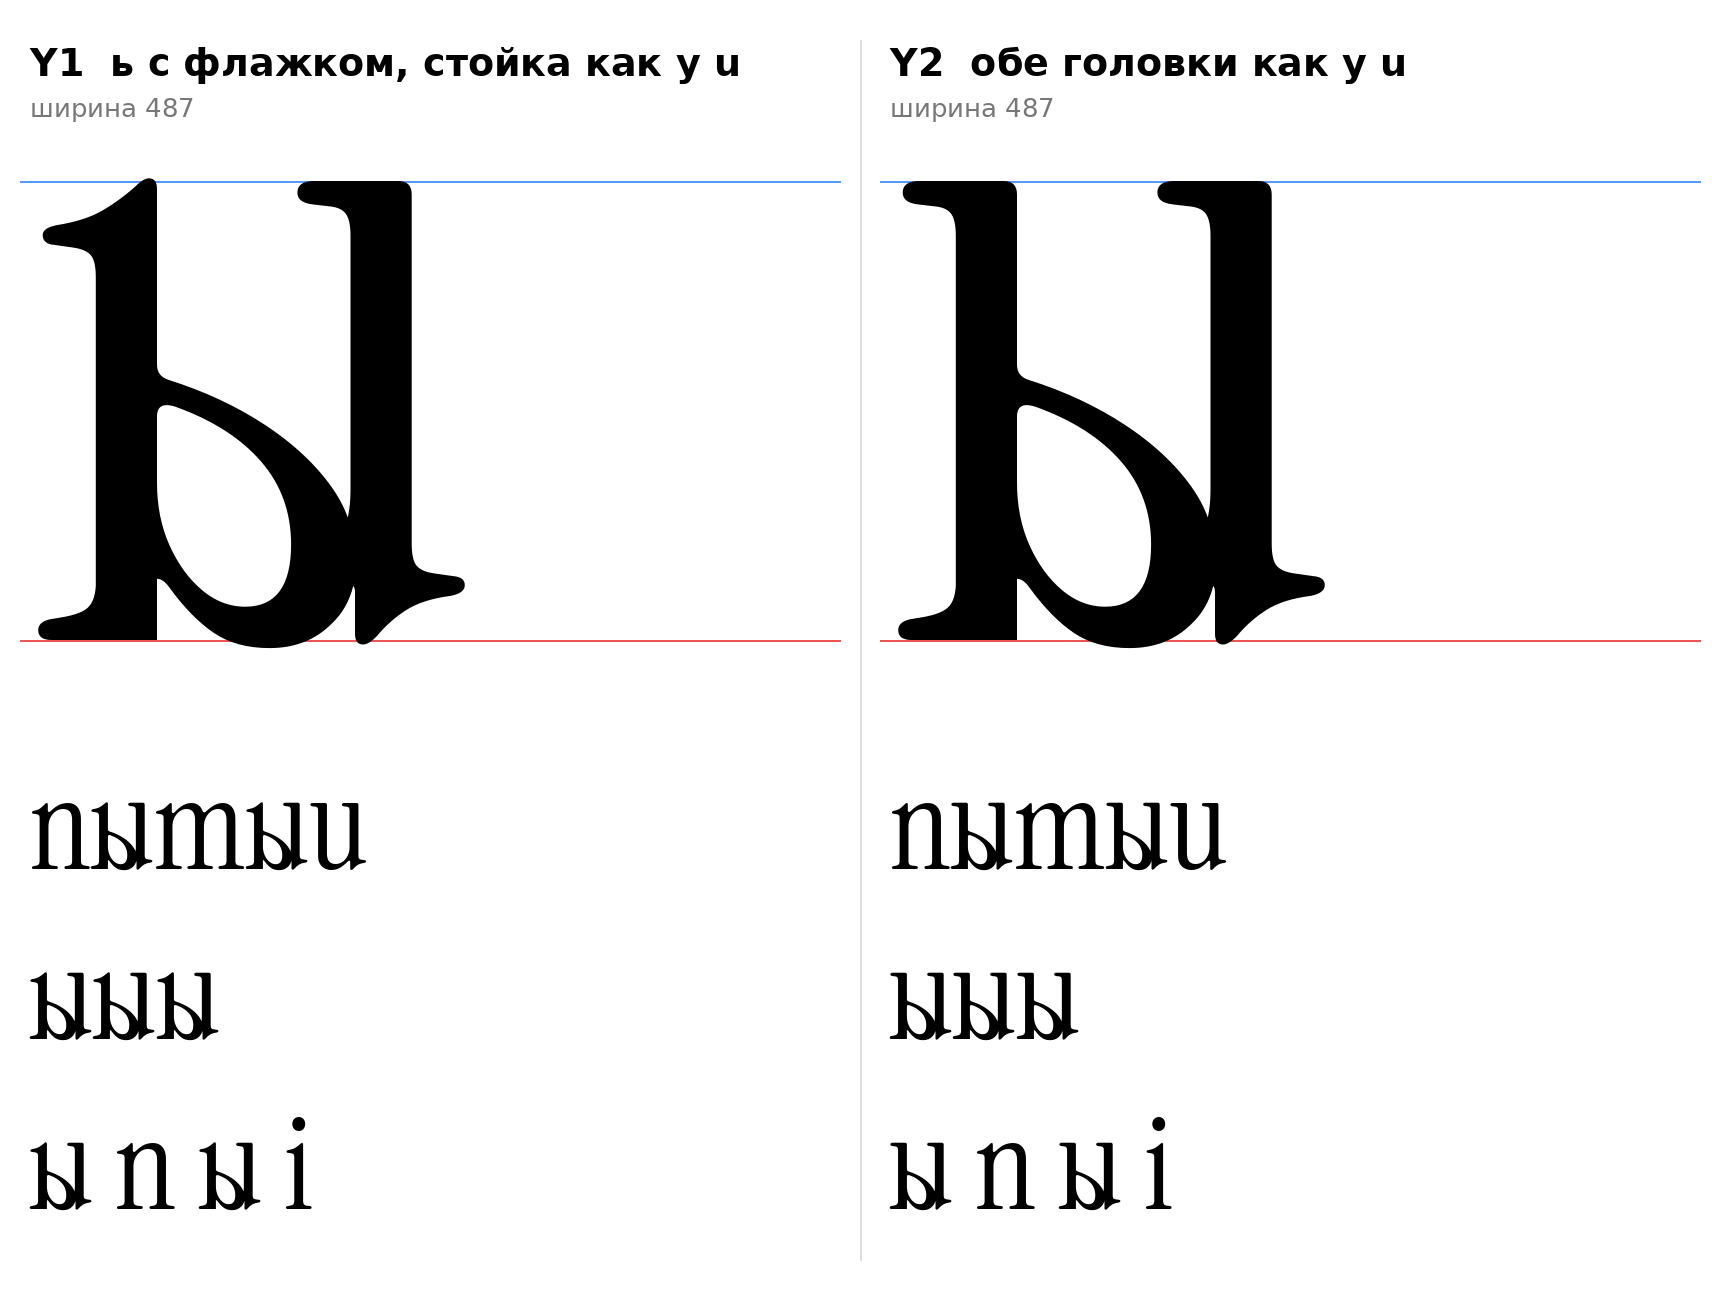
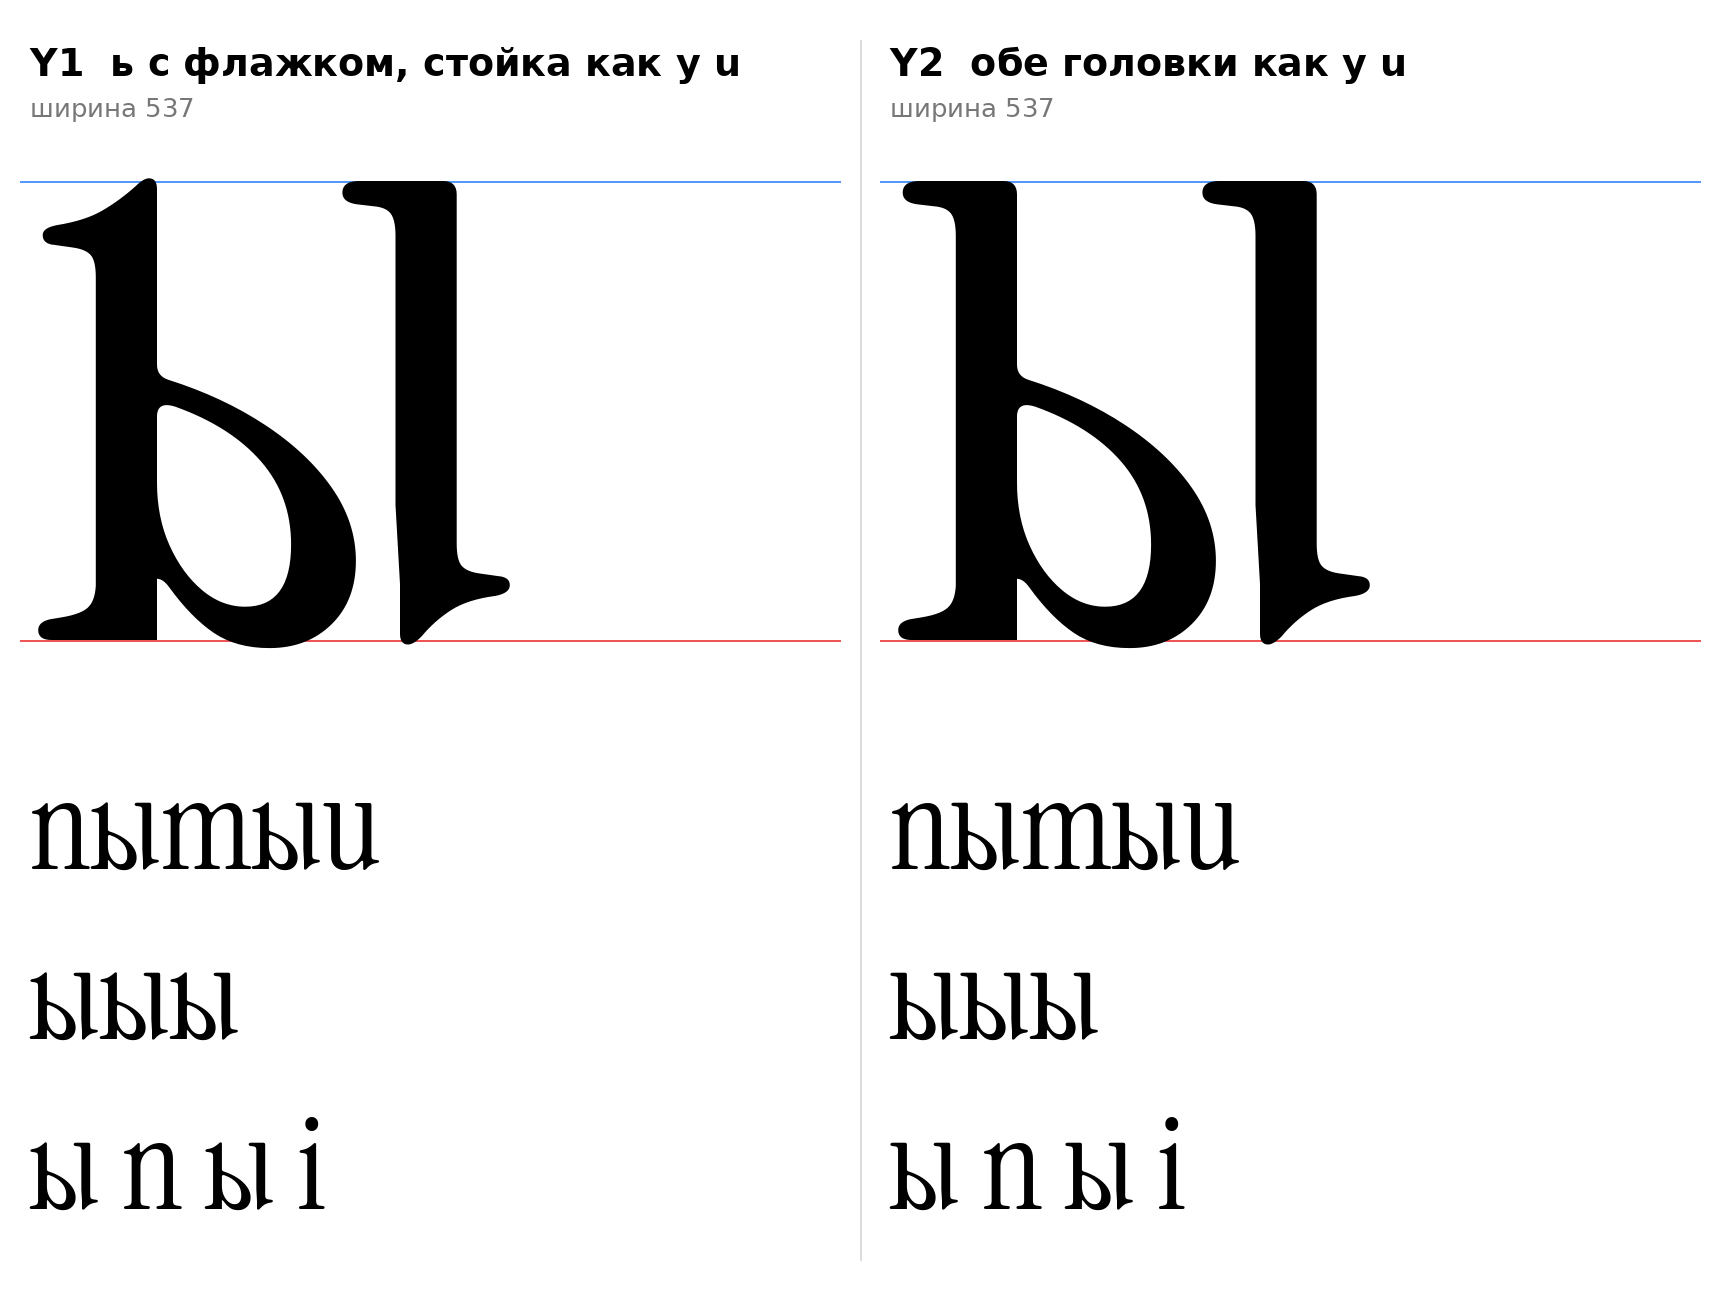
Yery: add the 44 unit gap from the author's drawing, taper the stem foot
- bowl and right stem are separate (they stuck together before: my misreading of the drawing)
- left stem edge tapers from 312 to 317 into the foot: no 5 unit step
- Y1 is the main variant, Y2 kept; D17 closed

Claude-Session: https://claude.ai/code/session_01Jf9YYsEQKw22U7CE7joTnT

diff --git a/tools/sketch_yery.py b/tools/sketch_yery.py
@@ -1,7 +1,7 @@
 #!/usr/bin/env python3
 """Эскизы строчной ы (U+044B, yeru-cy) по рисунку автора проекта: ь + правая стойка от латинской u.
-Правая стойка это стойка u целиком: плоская головка слева, стойка, стык с чашей, хвост-выход справа внизу (F3).
-Чаша ь вливается в стойку (зазора нет), как у u чаша вливается в правую стойку.
+Правая стойка это стойка u: плоская головка слева, прямая стойка, острая ножка и хвост-выход справа внизу (F3).
+Между чашей ь и стойкой зазор 44 (как на рисунке); левый край стойки прямой до острой ножки.
 Левая часть берётся из общего кода ь (tools/glyphparts.py).
   Y1: ь = S3 (флажок), правая стойка с головкой u (как на рисунке слева).
   Y2: ь = S4 (головка u), обе головки плоские (как на рисунке справа).
@@ -13,13 +13,16 @@ from glyphparts import soft_sign
 
 ref = Ref(); os.makedirs("build/yery", exist_ok=True); os.makedirs("data/yery", exist_ok=True)
 U = ref.glyph("u")
-OVERLAP = 6        # чаша ь (правый край 351) заходит в стойку на 6: вливается, а не касается
+GAP = 44           # зазор между правым краем чаши ь (351) и левым краем стойки: снят с рисунка автора проекта (около 44)
 U_STEM_LEFT = 312  # левый край правой стойки u (измерено)
 def right_stem(bowl_r):
-    # правая стойка u: головка целиком (выше y=400 левее стойки чаши u нет, берём от x=250), ниже y=400 от x=290
-    # (левее лежит чаша u, её не берём), со стыком и хвостом
-    part = OR(AND(U, rect(250, 400, 500, 700)), AND(U, rect(290, -50, 500, 400)))
-    return shift(part, bowl_r - OVERLAP - U_STEM_LEFT)
+    # стойка u: головка целиком (выше y=400 левее стойки чаши u нет, берём от x=250);
+    # ниже y=400 левый край прямой, от x=312: без наплыва там, где у u в стойку вливается её чаша; ножка и хвост-выход остаются
+    # левый край ниже: 312 до y=150, затем плавное сужение до 317 к y=62 (там у u начинается прямой край ножки x=317, измерено);
+    # прямой срез по 312 давал ступеньку в 5 единиц на стыке
+    taper = poly((U_STEM_LEFT, 400), (U_STEM_LEFT, 150), (317, 62), (317, -50), (500, -50), (500, 400))
+    part = OR(AND(U, rect(250, 400, 500, 700)), AND(U, taper))
+    return shift(part, bowl_r + GAP - U_STEM_LEFT)
 
 VAR = {"Y1": ("flag", "Y1  ь с флажком, стойка как у u"), "Y2": ("u", "Y2  обе головки как у u")}
 items, meta = [], {}

diff --git a/tools/sketchlib.py b/tools/sketchlib.py
@@ -25,6 +25,10 @@ class Ref:
 
 def rect(x0, y0, x1, y1):
     p = Path(); q = p.getPen(); q.moveTo((x0, y0)); q.lineTo((x1, y0)); q.lineTo((x1, y1)); q.lineTo((x0, y1)); q.closePath(); return p
+def poly(*pts):
+    p = Path(); q = p.getPen(); q.moveTo(pts[0])
+    for pt in pts[1:]: q.lineTo(pt)
+    q.closePath(); return p
 def AND(a, b): return pathops.op(a, b, PathOp.INTERSECTION)
 def SUB(a, b): return pathops.op(a, b, PathOp.DIFFERENCE)
 def OR(*ps):

diff --git a/docs/glyphs/yery.md b/docs/glyphs/yery.md
@@ -1,33 +1,40 @@
 # ы (U+044B, yeru-cy), строчная, прямое начертание
 
-Статус на 14.10.2026: **собрана по рисунку автора проекта, два варианта головок** (D17 снято, зазора нет).
+Статус на 14.10.2026: **собрана по рисунку автора проекта, два варианта**. Основной Y1 (выбор автора проекта), Y2 сохранён.
 
 ![Y1 и Y2](../img/yery_Y1_Y2.png)
 
 ## Конструкция
 
-Рисунок автора проекта: ь, чаша которой вливается в правую стойку, у стойки сверху плоская головка слева и хвост-выход справа внизу. Это конструкция латинской `u`, у которой чаша вливается в правую стойку и стойка заканчивается хвостом. Контуры построены кодом, рисунок не обводился.
+Рисунок автора проекта: ь и правая стойка раздельны (между ними зазор), у стойки сверху плоская головка слева, внизу острая ножка и хвост-выход справа. Это правая стойка латинской `u`. Контуры построены кодом, рисунок не обводился.
 
 - Левая часть: ь (`docs/glyphs/soft.md`) из общего кода `tools/glyphparts.py`: одна форма ь в обеих буквах, при правке ь меняется и ы.
-- Правая часть: стойка `u` целиком (головка слева, стойка, стык с чашей, хвост-выход справа внизу). Головка берётся от x=250 выше y=400, ниже y=400 стойка берётся от x=290 (левее лежит чаша `u`, её не берём).
-- Чаша ь (правая граница 351) заходит в стойку на 6 единиц: вливается, а не касается.
+- Правая часть: стойка `u` (головка слева, стойка, ножка, хвост-выход справа внизу).
+  - Головка берётся целиком (выше y=400 от x=250).
+  - Левый край ниже: 312 до y=150, затем плавное сужение до 317 к y=62, где у `u` начинается прямой край ножки (измерено). Без сужения на стыке была ступенька в 5 единиц.
+- Зазор между правым краем чаши ь (351) и левым краем стойки: **44**, снят с рисунка автора проекта.
 
 | | ь | Головка правой стойки | Ширина |
 |---|---|---|---|
-| **Y1** | S3 (флажок) | плоская, как у `u` (рисунок слева) | 487 |
-| **Y2** | S4 (головка как у `u`) | плоская, как у `u`: обе головки плоские (рисунок справа) | 487 |
+| **Y1** | S3 (флажок) | плоская, как у `u` (рисунок слева) | 537 |
+| **Y2** | S4 (головка как у `u`) | плоская, как у `u`: обе головки плоские (рисунок справа) | 537 |
 
-- `[ИЗМЕРЕНО]` Два контура в каждом варианте: внешний и контрформа чаши. Левая граница −2, правая 472, верх 513 (Y1) и 510 (Y2), низ −9. Ширина 487 (поле справа 15, как у `u`).
-- `[НАБЛЮДЕНИЕ]` Хвост справа внизу это F3: тот же хвост, что у `a`, `d`, `u`. Крючки в этом шрифте бывают только справа; здесь он справа.
-- `[РЕШЕНИЕ]` Выбор автора проекта для ь это S3, поэтому основным считается Y1. Y2 сохранён по рисунку автора проекта.
-- `[ОТКРЫТО]` Стык чаши со стойкой и щель сверху между ними сохранены от донора, вручную не отрисованы. Поле слева у ь не подобрано под строку.
+- `[ИЗМЕРЕНО]` Три контура в каждом варианте: ь снаружи, контрформа чаши, правая стойка. Левая граница −2, правая 522, верх 513 (Y1) и 510 (Y2), низ −9. Поле справа 15, как у `u`.
+- `[НАБЛЮДЕНИЕ]` Хвост справа внизу это F3: тот же хвост, что у `a`, `d`, `u`; он справа, как и положено.
+- `[РЕШЕНИЕ]` Выбор автора проекта: основной Y1, Y2 не удалять.
+- `[ОТКРЫТО]` Зазор 44 снят с рисунка на глаз (по размерам x-height на рисунке): уточнить при подборе поля и кернинга. Поле слева у ь не подобрано под строку.
+
+## Что было неверно и исправлено
+
+- Первая сборка по рисунку вливала чаша в стойку (заход 6 единиц), и буквы слиплись. На рисунке автора проекта между ними зазор. Моя ошибка чтения рисунка.
+- Прямой срез левого края стойки по 312 давал ступеньку на стыке с ножкой.
 
 ## Что отброшено
 
-- Первые эскизы ы с зазором между ь и стойкой ı (182 и 109) и с чашей от `b` и `p`: чаша от `b` и `p` читалась как «D», зазор не соответствует рисунку автора проекта.
+- Первые эскизы ы с зазором между ь и стойкой ı (182 и 109) и с чашей от `b` и `p`: чаша от `b` и `p` читалась как «D»; стойка ı не соответствует рисунку автора проекта.
 
 Эскиз из деталей оригинала, не финальный контур.
 
 ## Файлы
 
-`tools/sketch_yery.py` (воспроизводит эскизы), `tools/glyphparts.py` (общая ь), `data/yery/Y1.glif`, `Y2.glif` (имя `yeru-cy`), `Y1.svg`, `Y2.svg`, `meta.json`.
+`tools/sketch_yery.py` (воспроизводит эскизы), `tools/glyphparts.py` (общая ь), `tools/sketchlib.py`, `data/yery/Y1.glif`, `Y2.glif` (имя `yeru-cy`), `Y1.svg`, `Y2.svg`, `meta.json`.

diff --git a/CLAUDE.md b/CLAUDE.md
@@ -164,7 +164,7 @@ python3 -I tools/ref_sheet.py reference/instrument-serif/fonts/ttf/InstrumentSer
 | D14 | Состав символов первого выпуска |
 | D15 | Выбор ш: R1 или R2; правка раздела 3 инструкции под круглый низ |
 | D16 | Дно арок ш −6 против зоны −9 |
-| D17 | Закрыто: в ы зазора нет, чаша ь вливается в правую стойку от u (рисунок автора проекта) |
+| D17 | Закрыто: в ы чаша ь и правая стойка от u раздельны, зазор 44 (рисунок автора проекта); основной Y1 |
 | D18 | Закрыто: ь = S3 (флажок), выбрана автором проекта 14.10.2026; согласовать с ш (D15: R2 с флажками подходит) |
 
 ## 11. Запреты
@@ -185,4 +185,4 @@ python3 -I tools/ref_sheet.py reference/instrument-serif/fonts/ttf/InstrumentSer
 |---|---|---|
 | ш | две кандидатуры сохранены, выбор D15: R1 (головки как у u) и R2 (флажки), обе из перевёрнутой m | `docs/glyphs/sha.md` |
 | ь | выбрана S3 (флажок), чаша от нижней чаши a отражённая, без крючков; S4 запасная | `docs/glyphs/soft.md` |
-| ы | собрана по рисунку автора проекта: ь (S3) + правая стойка от u (головка, хвост-выход); Y1 основной, Y2 с головками u на обеих стойках | `docs/glyphs/yery.md` |
+| ы | по рисунку автора проекта: ь (S3) + правая стойка от u (головка, ножка, хвост-выход), зазор 44; Y1 основной, Y2 с головками u на обеих стойках сохранён | `docs/glyphs/yery.md` |

diff --git a/docs/glyphs/soft.md b/docs/glyphs/soft.md
@@ -1,6 +1,6 @@
 # ь (U+044C, softsign-cy), строчная, прямое начертание
 
-Статус на 14.10.2026: **выбрана S3 (флажок)** автором проекта (D18 закрыто). S4 (головка как у `u`) не выбрана, остаётся в репозитории как запасной вариант. Выбранная ь используется в ы (`docs/glyphs/yery.md`, чаша вливается в правую стойку от `u`).
+Статус на 14.10.2026: **выбрана S3 (флажок)** автором проекта (D18 закрыто). S4 (головка как у `u`) не выбрана, остаётся в репозитории как запасной вариант. Выбранная ь используется в ы (`docs/glyphs/yery.md`, справа отдельная стойка от `u`, зазор 44).
 
 ![S3 и S4](../img/soft_S3_S4.png)
 
